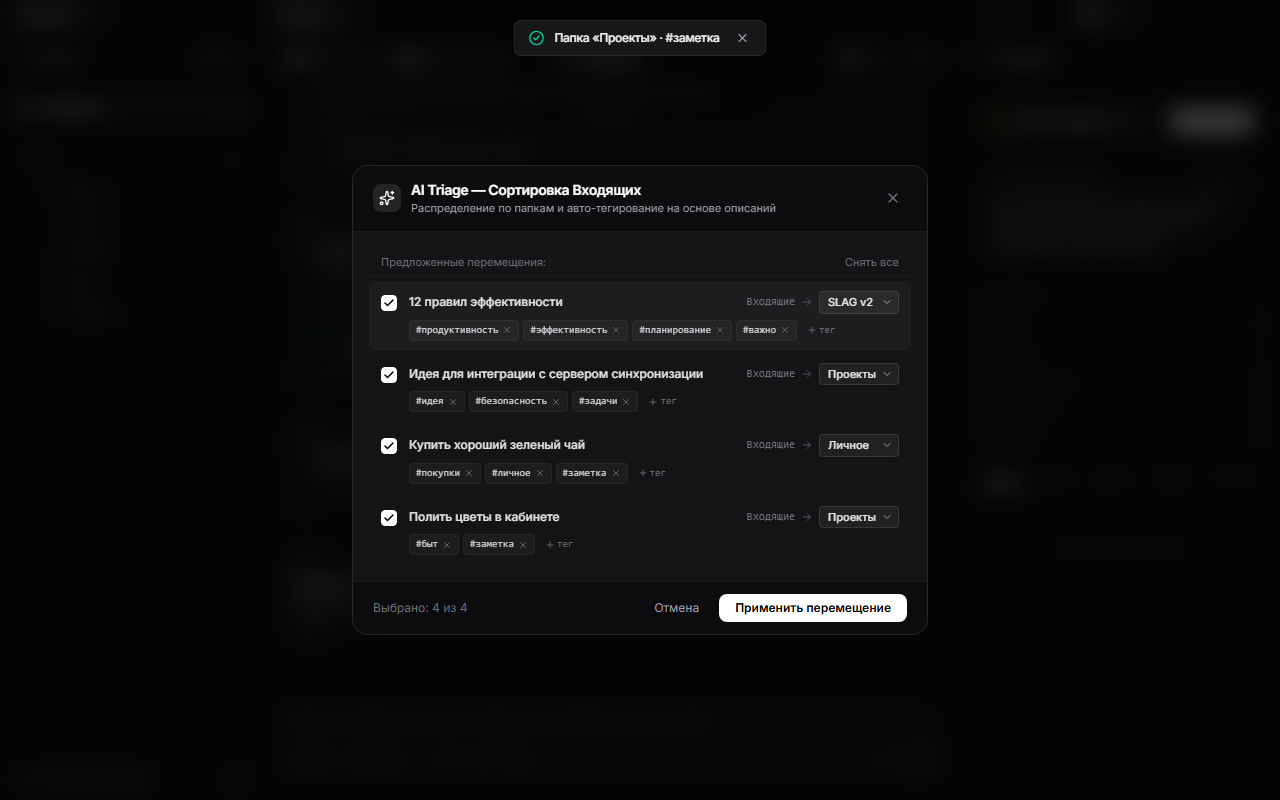
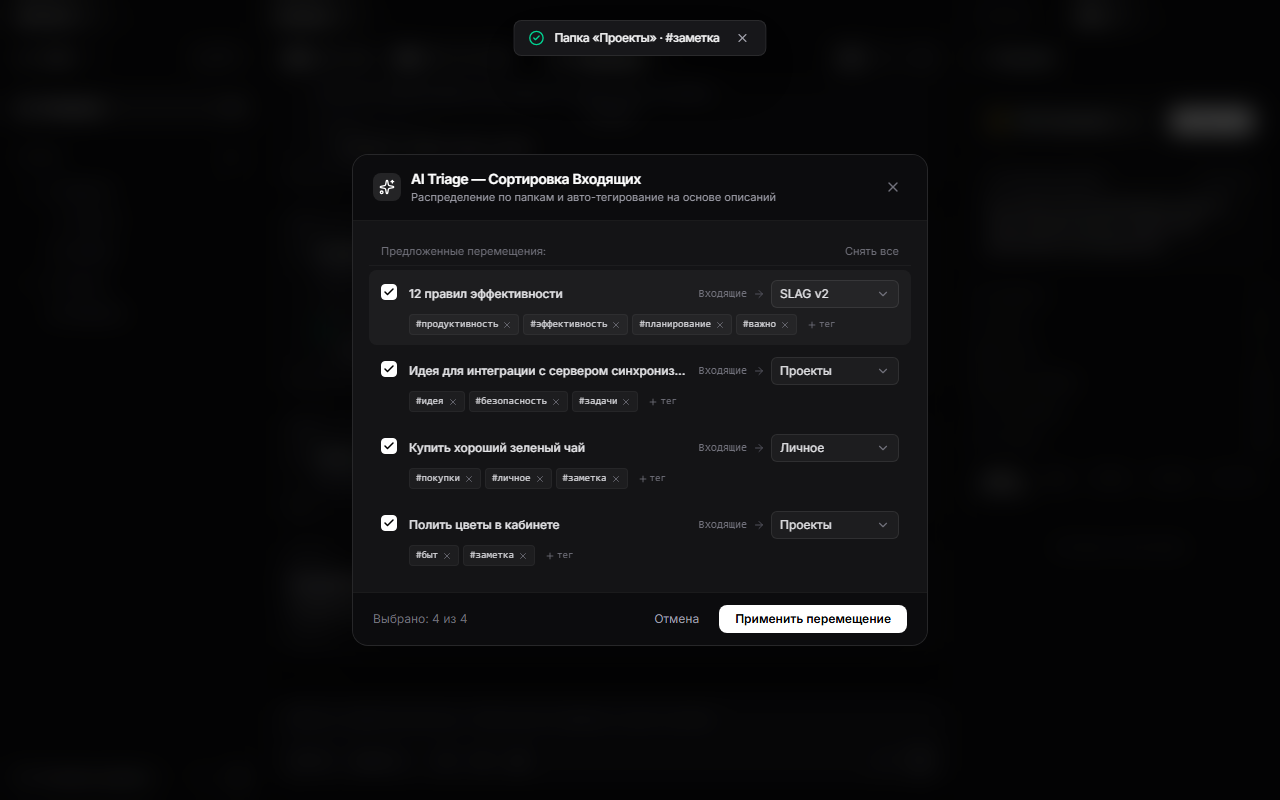
fix(triage): portal select dropdown to prevent clipping and clean up footer

diff --git a/src/components/UI/Select.tsx b/src/components/UI/Select.tsx
@@ -1,4 +1,5 @@
 import React, { useState, useRef, useEffect, useCallback } from 'react';
+import { createPortal } from 'react-dom';
 import { ChevronDown, Check } from 'lucide-react';
 
 export interface SelectOption {
@@ -37,43 +38,82 @@ export const Select: React.FC<SelectProps> = ({
 }) => {
   const [isOpen, setIsOpen] = useState(false);
   const [calculatedDirection, setCalculatedDirection] = useState<'down' | 'up'>('down');
+  const [coords, setCoords] = useState<{ top: number; left: number; width: number } | null>(null);
   const containerRef = useRef<HTMLDivElement | null>(null);
   const listRef = useRef<HTMLDivElement | null>(null);
 
   const selectedOption = options.find((opt) => opt.value === value);
 
-  // Determine direction based on viewport bounds if direction is 'auto'
-  const updateDirection = useCallback(() => {
-    if (direction !== 'auto') {
-      setCalculatedDirection(direction);
-      return;
+  // Calculate fixed viewport coordinates for portal
+  const updatePosition = useCallback(() => {
+    if (!containerRef.current) return;
+    const rect = containerRef.current.getBoundingClientRect();
+    const dropdownHeight = 220;
+    const spaceBelow = window.innerHeight - rect.bottom;
+    const spaceAbove = rect.top;
+
+    let dir: 'down' | 'up' = 'down';
+    if (direction === 'up') {
+      dir = 'up';
+    } else if (direction === 'down') {
+      dir = 'down';
+    } else {
+      dir = spaceBelow < dropdownHeight && spaceAbove > spaceBelow ? 'up' : 'down';
     }
-    if (containerRef.current) {
-      const rect = containerRef.current.getBoundingClientRect();
-      const spaceBelow = window.innerHeight - rect.bottom;
-      const spaceAbove = rect.top;
-      if (spaceBelow < 220 && spaceAbove > spaceBelow) {
-        setCalculatedDirection('up');
-      } else {
-        setCalculatedDirection('down');
-      }
+
+    setCalculatedDirection(dir);
+
+    // Keep dropdown within viewport horizontal bounds
+    const width = Math.max(rect.width, 160);
+    let left = rect.left;
+    if (left + width > window.innerWidth - 8) {
+      left = Math.max(8, window.innerWidth - width - 8);
     }
+
+    setCoords({
+      top: dir === 'up' ? rect.top - 6 : rect.bottom + 6,
+      left,
+      width,
+    });
   }, [direction]);
 
   const handleToggle = () => {
     if (disabled) return;
     if (!isOpen) {
-      updateDirection();
+      updatePosition();
     }
     setIsOpen(!isOpen);
   };
 
-  // Close on outside click
+  // Re-align on scroll or resize while open
+  useEffect(() => {
+    if (!isOpen) return;
+
+    const handleScrollOrResize = () => {
+      updatePosition();
+    };
+
+    window.addEventListener('scroll', handleScrollOrResize, true);
+    window.addEventListener('resize', handleScrollOrResize);
+
+    return () => {
+      window.removeEventListener('scroll', handleScrollOrResize, true);
+      window.removeEventListener('resize', handleScrollOrResize);
+    };
+  }, [isOpen, updatePosition]);
+
+  // Close on outside click or Escape
   useEffect(() => {
     if (!isOpen) return;
 
     const handlePointerDown = (e: MouseEvent | TouchEvent) => {
-      if (containerRef.current && !containerRef.current.contains(e.target as Node)) {
+      const target = e.target as Node;
+      if (
+        containerRef.current &&
+        !containerRef.current.contains(target) &&
+        listRef.current &&
+        !listRef.current.contains(target)
+      ) {
         setIsOpen(false);
       }
     };
@@ -103,6 +143,55 @@ export const Select: React.FC<SelectProps> = ({
   };
 
   const isSmall = size === 'sm';
+
+  const portalContent = isOpen && coords && typeof document !== 'undefined'
+    ? createPortal(
+        <div
+          ref={listRef}
+          role="listbox"
+          style={{
+            position: 'fixed',
+            left: `${coords.left}px`,
+            top: calculatedDirection === 'up' ? undefined : `${coords.top}px`,
+            bottom: calculatedDirection === 'up' ? `${window.innerHeight - coords.top}px` : undefined,
+            minWidth: `${coords.width}px`,
+          }}
+          className={`z-[9999] max-w-[340px] max-h-60 overflow-y-auto rounded-xl bg-[#141417] border border-white/[0.1] shadow-2xl shadow-black/90 p-1 backdrop-blur-xl animate-in fade-in duration-100 ${
+            calculatedDirection === 'up' ? 'slide-in-from-bottom-1' : 'slide-in-from-top-1'
+          } ${dropdownClassName}`}
+        >
+          {options.map((opt) => {
+            const isSelected = opt.value === value;
+            return (
+              <button
+                key={opt.value}
+                type="button"
+                role="option"
+                aria-selected={isSelected}
+                disabled={opt.disabled}
+                onClick={() => handleSelect(opt.value, opt.disabled)}
+                className={`w-full flex items-center justify-between gap-2 px-2.5 py-1.5 rounded-lg text-xs transition-colors cursor-pointer text-left ${
+                  opt.disabled
+                    ? 'opacity-40 cursor-not-allowed text-zinc-600'
+                    : isSelected
+                    ? 'bg-white/10 text-white font-medium'
+                    : 'text-zinc-300 hover:text-white hover:bg-white/[0.06]'
+                }`}
+              >
+                <div className="flex items-center gap-2 truncate">
+                  {opt.icon && <span className="shrink-0 text-zinc-400">{opt.icon}</span>}
+                  <span className="truncate">{opt.label}</span>
+                </div>
+                {isSelected && (
+                  <Check className="w-3.5 h-3.5 text-white shrink-0 stroke-[2.5]" />
+                )}
+              </button>
+            );
+          })}
+        </div>,
+        document.body
+      )
+    : null;
 
   return (
     <div
@@ -139,46 +228,7 @@ export const Select: React.FC<SelectProps> = ({
         />
       </button>
 
-      {isOpen && (
-        <div
-          ref={listRef}
-          role="listbox"
-          className={`absolute left-0 z-[150] w-full min-w-[160px] max-w-[340px] max-h-60 overflow-y-auto rounded-xl bg-[#141417] border border-white/[0.1] shadow-2xl shadow-black/80 p-1 backdrop-blur-xl animate-in fade-in duration-100 ${
-            calculatedDirection === 'up'
-              ? 'bottom-full mb-1.5 slide-in-from-bottom-1'
-              : 'top-full mt-1.5 slide-in-from-top-1'
-          } ${dropdownClassName}`}
-        >
-          {options.map((opt) => {
-            const isSelected = opt.value === value;
-            return (
-              <button
-                key={opt.value}
-                type="button"
-                role="option"
-                aria-selected={isSelected}
-                disabled={opt.disabled}
-                onClick={() => handleSelect(opt.value, opt.disabled)}
-                className={`w-full flex items-center justify-between gap-2 px-2.5 py-1.5 rounded-lg text-xs transition-colors cursor-pointer text-left ${
-                  opt.disabled
-                    ? 'opacity-40 cursor-not-allowed text-zinc-600'
-                    : isSelected
-                    ? 'bg-white/10 text-white font-medium'
-                    : 'text-zinc-300 hover:text-white hover:bg-white/[0.06]'
-                }`}
-              >
-                <div className="flex items-center gap-2 truncate">
-                  {opt.icon && <span className="shrink-0 text-zinc-400">{opt.icon}</span>}
-                  <span className="truncate">{opt.label}</span>
-                </div>
-                {isSelected && (
-                  <Check className="w-3.5 h-3.5 text-white shrink-0 stroke-[2.5]" />
-                )}
-              </button>
-            );
-          })}
-        </div>
-      )}
+      {portalContent}
     </div>
   );
 };

diff --git a/src/components/Modals/TriageModal.tsx b/src/components/Modals/TriageModal.tsx
@@ -6,12 +6,12 @@ import {
   Sparkles,
   ArrowRight,
   Loader2,
-  ChevronDown,
   X,
   Plus
 } from 'lucide-react';
 import { BaseModal } from './BaseModal';
 import { Checkbox } from '../UI/Checkbox';
+import { Select } from '../UI/Select';
 
 const TriageModalDialog: React.FC = () => {
   const {
@@ -32,6 +32,11 @@ const TriageModalDialog: React.FC = () => {
   const eligibleFolders = useMemo(
     () => folders.filter(f => f.path !== 'Входящие'),
     [folders]
+  );
+
+  const folderOptions = useMemo(
+    () => eligibleFolders.map(f => ({ value: f.path, label: f.name })),
+    [eligibleFolders]
   );
 
   const [loading, setLoading] = useState(true);
@@ -181,17 +186,9 @@ const TriageModalDialog: React.FC = () => {
 
   const footer = (
     <div className="flex items-center justify-between">
-      <div className="flex items-center gap-2 text-xs text-zinc-500">
-        <span>
-          Выбрано: {selectedIds.size} из {suggestions.length}
-        </span>
-        {isAnalyzing && (
-          <span className="text-[11px] text-amber-400/80 flex items-center gap-1">
-            <Loader2 className="w-3 h-3 animate-spin" />
-            <span>обрабатываются следующие...</span>
-          </span>
-        )}
-      </div>
+      <span className="text-xs text-zinc-500">
+        Выбрано: {selectedIds.size} из {suggestions.length}
+      </span>
 
       <div className="flex gap-2">
         <button
@@ -285,27 +282,14 @@ const TriageModalDialog: React.FC = () => {
                             Входящие
                           </span>
                           <ArrowRight className="w-3 h-3 text-zinc-600 hidden sm:inline" />
-                          <div className="relative inline-flex items-center">
-                            <select
-                              value={s.targetFolder}
-                              onChange={(e) =>
-                                updateSuggestionFolder(s.itemId, e.target.value)
-                              }
-                              className="bg-white/[0.06] hover:bg-white/[0.1] text-zinc-200 text-[11px] font-medium rounded px-2 py-0.5 border border-white/10 outline-none cursor-pointer appearance-none pr-5 transition-colors"
-                              title="Сменить целевую папку"
-                            >
-                              {eligibleFolders.map(f => (
-                                <option
-                                  key={f.path}
-                                  value={f.path}
-                                  className="bg-[#141417] text-zinc-200"
-                                >
-                                  {f.name}
-                                </option>
-                              ))}
-                            </select>
-                            <ChevronDown className="w-3 h-3 text-zinc-400 absolute right-1.5 pointer-events-none" />
-                          </div>
+                          <Select
+                            value={s.targetFolder}
+                            onChange={(val) => updateSuggestionFolder(s.itemId, val)}
+                            options={folderOptions}
+                            size="sm"
+                            className="w-28 sm:w-32"
+                            aria-label="Сменить целевую папку"
+                          />
                         </div>
                       </div>
 

diff --git a/e2e/slag.spec.ts b/e2e/slag.spec.ts
@@ -1242,10 +1242,22 @@ test.describe('SLAG v2 Specification E2E Verification', () => {
       const count = await modalTags.count();
       expect(count).toBeGreaterThan(0);
 
-      // Verify folder selector exists and test changing folder
-      const folderSelect = page.locator('div[role="dialog"] select').first();
-      await expect(folderSelect).toBeVisible();
-      await folderSelect.selectOption({ index: 1 });
+      // Verify custom folder selector exists and test changing folder
+      const folderSelectBtn = page.locator('div[role="dialog"] button[aria-label="Сменить целевую папку"]').first();
+      await expect(folderSelectBtn).toBeVisible();
+      await folderSelectBtn.click();
+      await page.waitForTimeout(150);
+
+      // Capture screenshot while portal dropdown is open to verify NO clipping
+      await page.screenshot({
+        path: 'test-results/screenshots/triage-modal-dropdown-open.png',
+        fullPage: false,
+      });
+
+      const option = page.locator('button[role="option"]').nth(1);
+      if (await option.isVisible()) {
+        await option.click();
+      }
 
       // Test adding an extra tag
       const addTagBtn = page.locator('div[role="dialog"] button:has-text("тег")').first();
